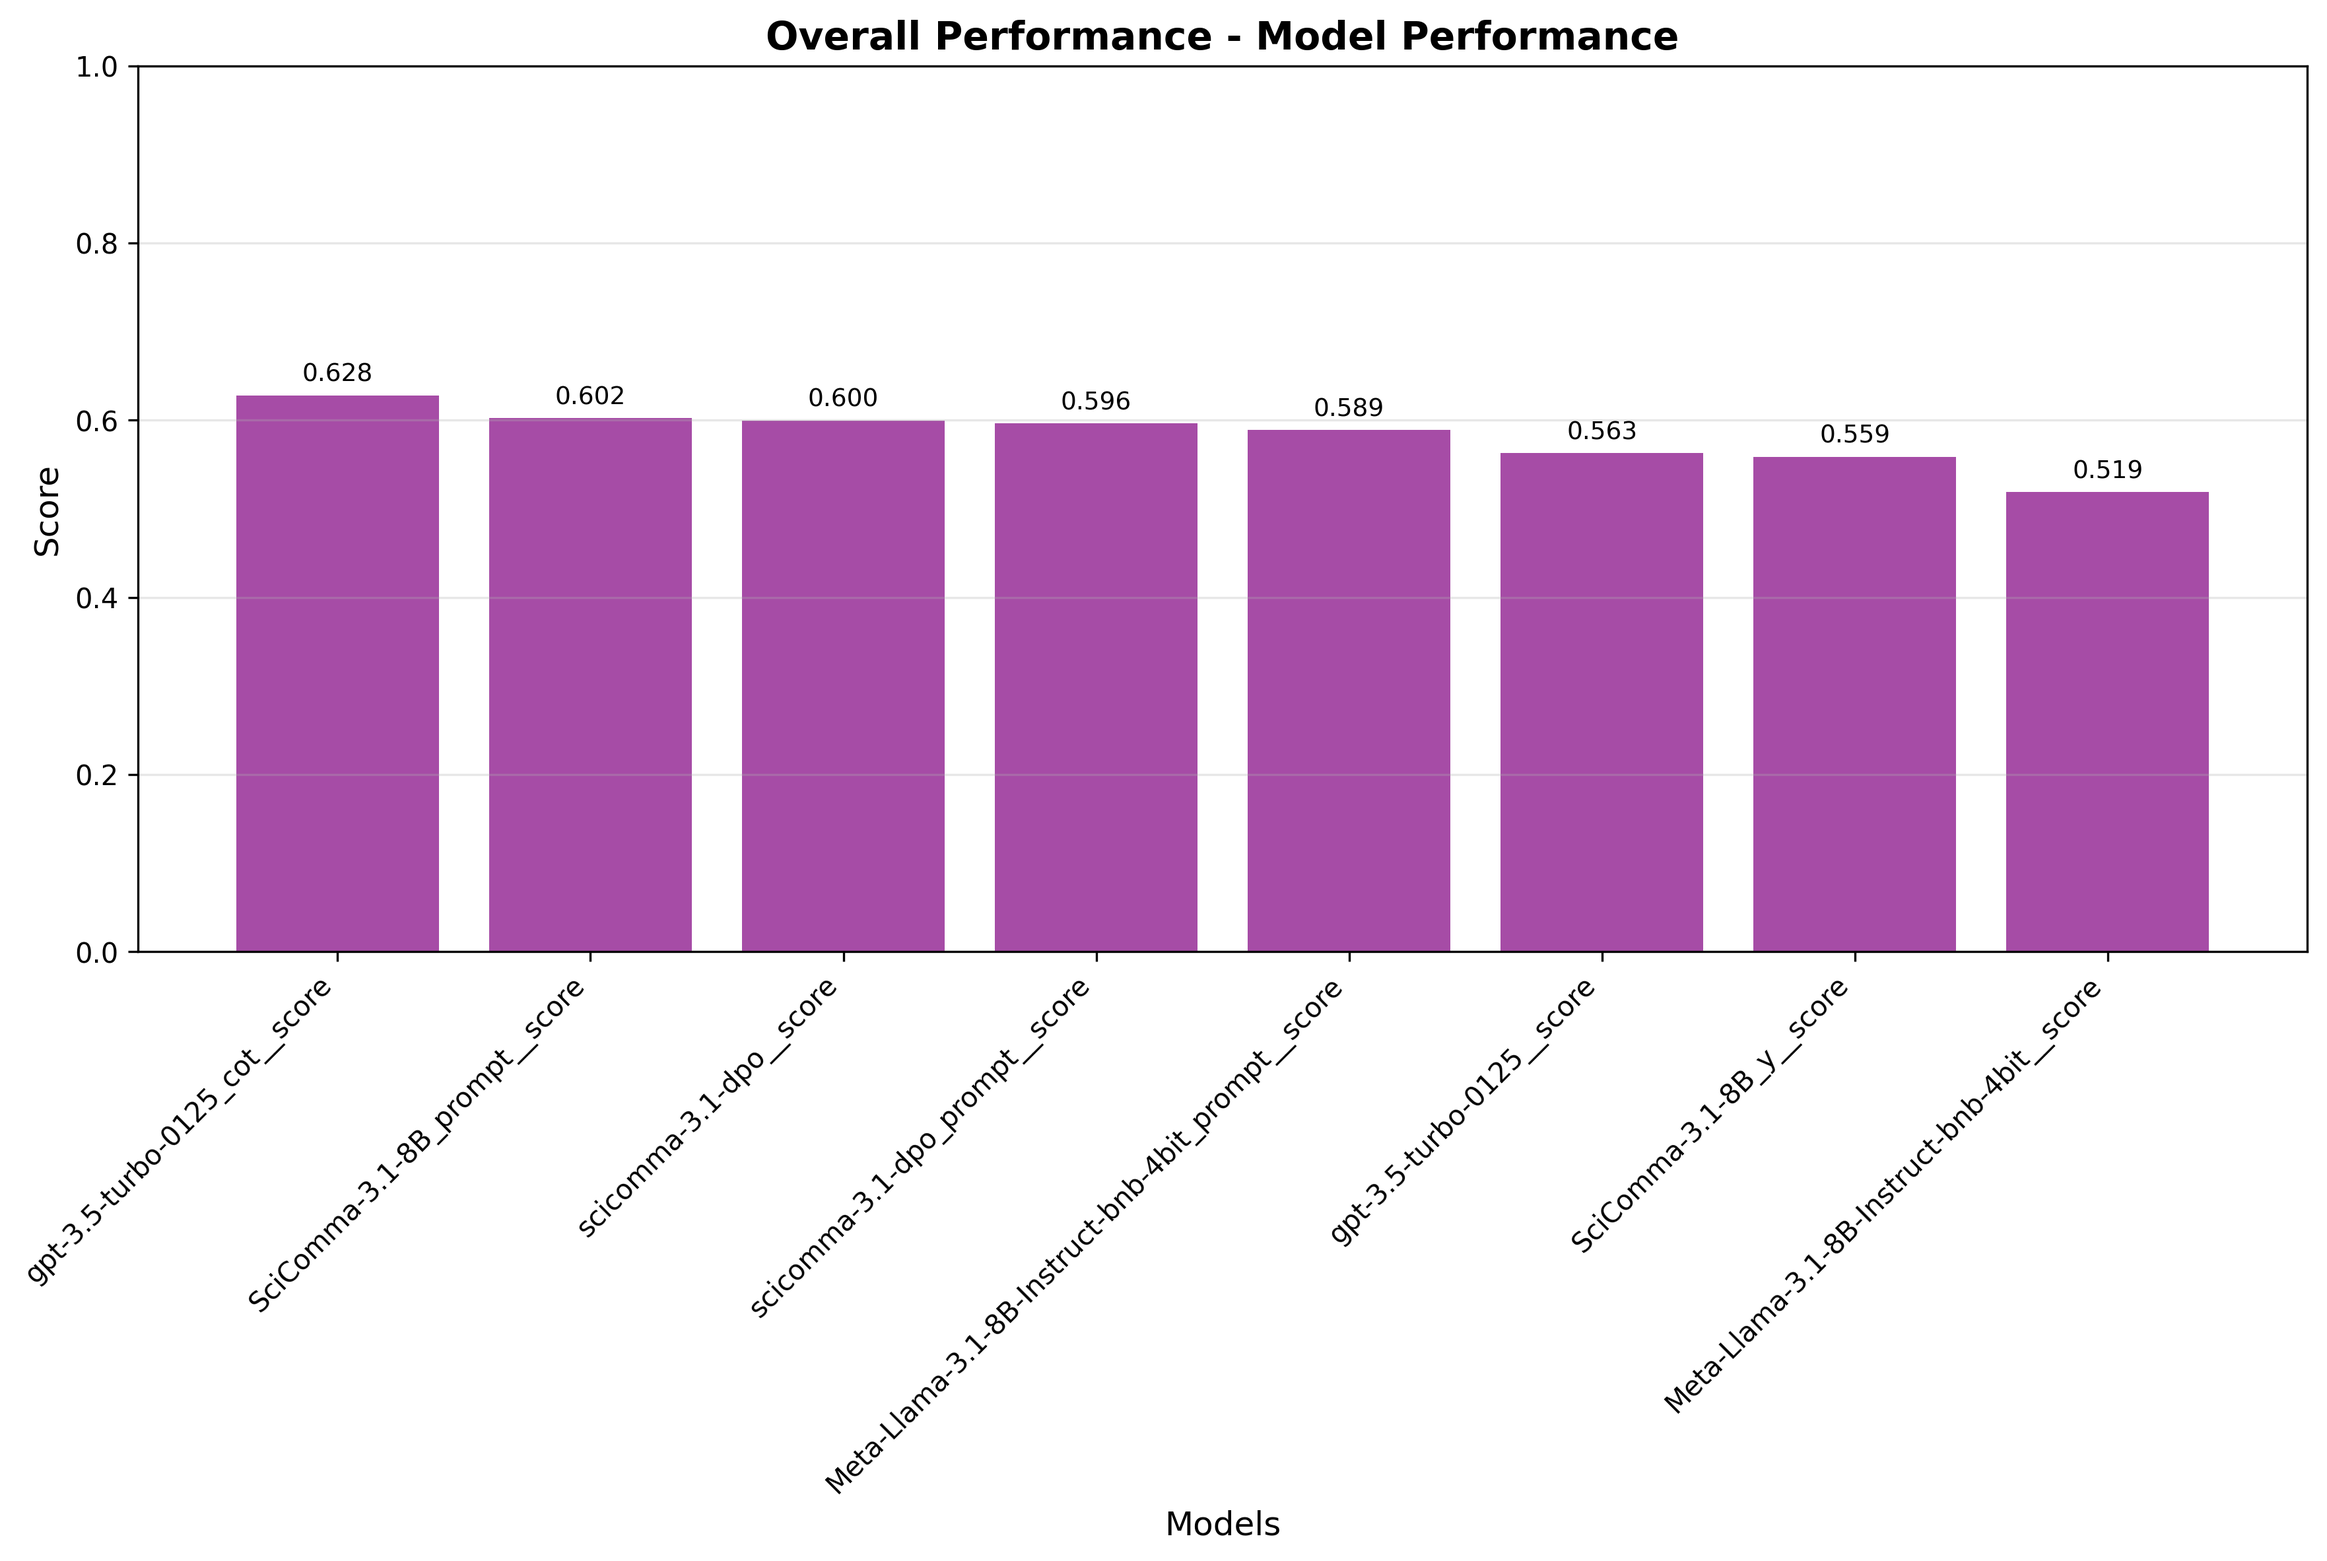
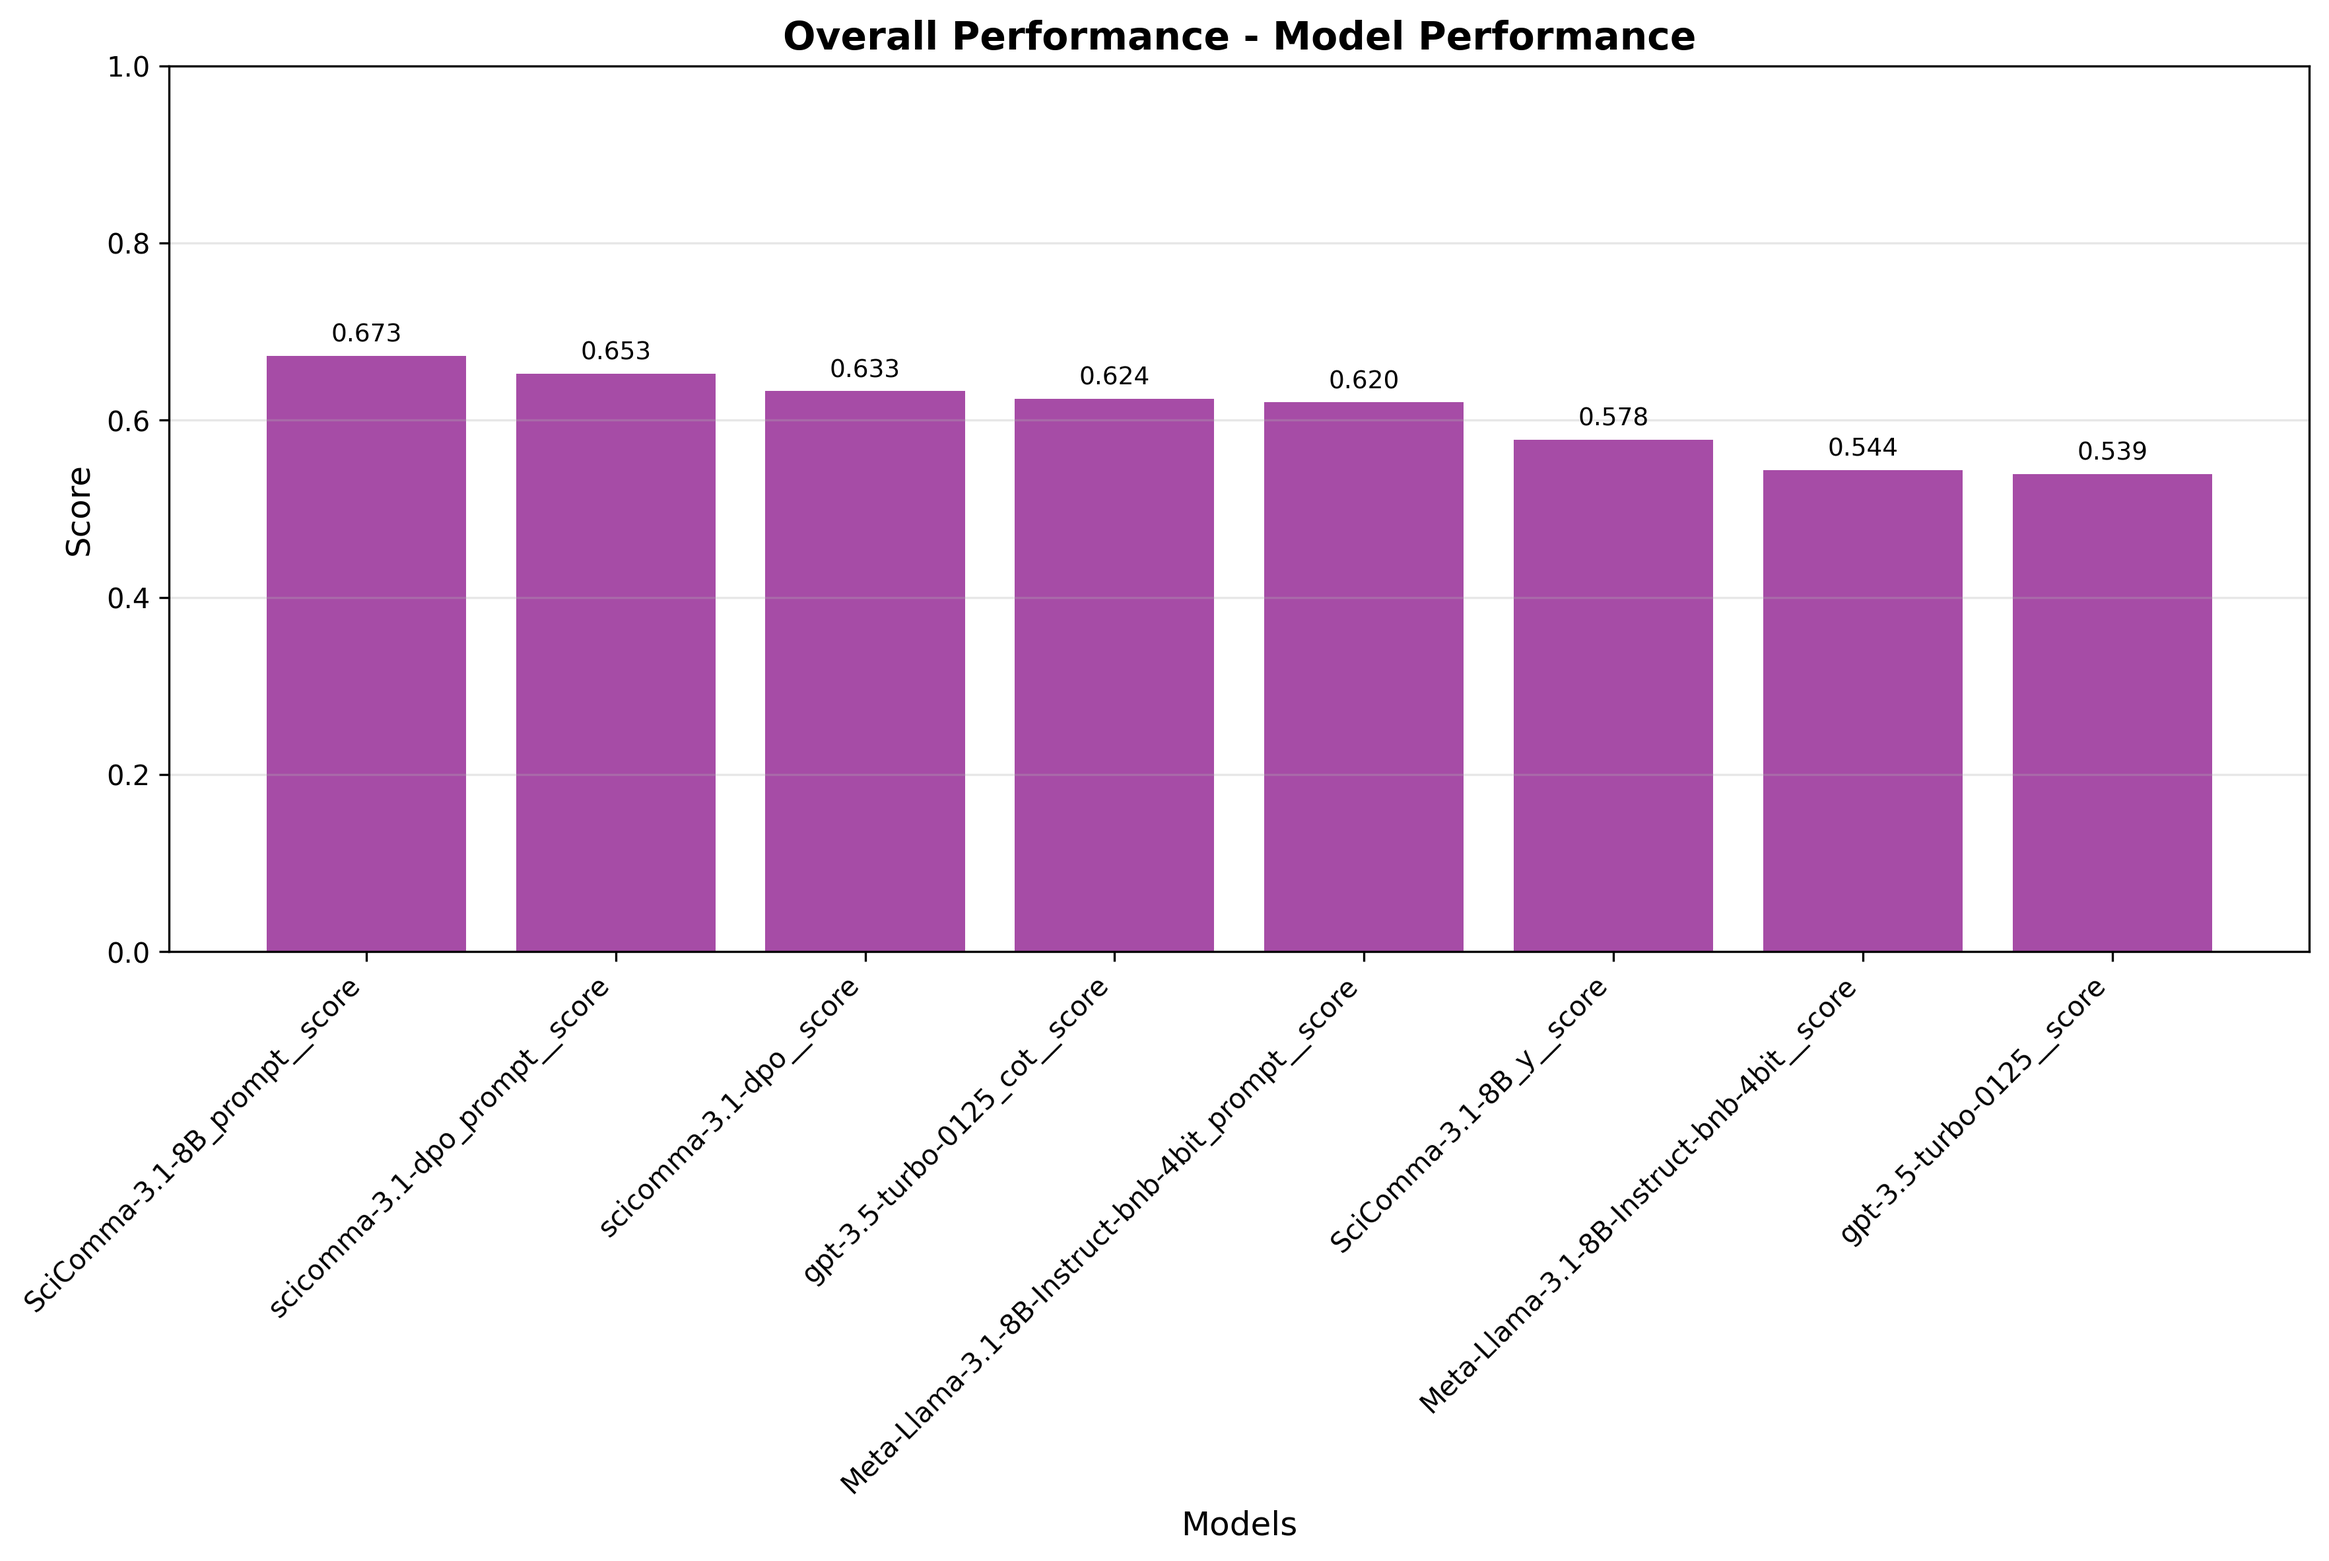
fix normalization for readability metrics again

diff --git a/Benchmarking/deep_eval/custom_metrics/aggregate.py b/Benchmarking/deep_eval/custom_metrics/aggregate.py
@@ -20,9 +20,14 @@ def normalize_df(df, is_lower_better):
     if min_val == max_val:
         return df  # Avoid division by zero; leave unchanged
     if is_lower_better:
+        if min_val >= 0 and max_val < 1:
+            normalized = 1 - numeric_df
         normalized = 1 - ((numeric_df - min_val) / (max_val - min_val))
     else:
-        normalized = (numeric_df - min_val) / (max_val - min_val)
+        if min_val >= 0 and max_val < 1:
+            normalized = numeric_df
+        else:
+            normalized = (numeric_df - min_val) / (max_val - min_val)
     df.loc[:, normalized.columns] = normalized
     return df
 
@@ -85,7 +90,7 @@ def aggregate_over_model_metric(directory, lower_is_better_metrics):
             try:
                 df = pd.read_csv(filepath)
                 df = normalize_df(
-                    df, is_lower_better=filename in lower_is_better_metrics
+                    df, is_lower_better=filename[:-4] in lower_is_better_metrics
                 )
                 all_normalized_dfs.append(df)
                 means = df.mean(numeric_only=True, skipna=True)
@@ -98,6 +103,33 @@ def aggregate_over_model_metric(directory, lower_is_better_metrics):
             means_df = pd.DataFrame(rows)
             cols = ["metric"] + [col for col in means_df.columns if col != "metric"]
             means_df = means_df[cols]
+            
+            # Define the desired order of metrics
+            metric_order = [
+                "metaphor_explicit",
+                "humor_explicit",
+                "content_units_explicit",
+                "connection_to_everyday_life",
+                "explanation_type",
+                "analogy_explicit",
+                "jargon",
+                "alternatives_explicit",
+                "internal_coherence_explicit",
+                "perceived_truth_explicit",
+                "articulation_explicit",
+                "completeness_explicit",
+                "flesch_reading_ease",
+                "flesch_kincaid",
+                "dale_chall",
+                "ari"
+            ]
+            
+            # Set the metric column as categorical with the specified order
+            means_df['metric'] = pd.Categorical(means_df['metric'], categories=metric_order, ordered=True)
+            
+            # Sort by the metric column
+            means_df = means_df.sort_values('metric')
+            
             means_df.to_csv(output_file, index=False)
             print(f"Wrote normalized means to {output_file}")
 
@@ -134,7 +166,7 @@ def aggregate_final_model_scores(directory: str, ignore_files: list[str], lower_
         df_scores = df[score_columns].copy()
         
         # Normalize the scores
-        is_lower_better = file_name in lower_is_better_metrics
+        is_lower_better = file_name[:-4] in lower_is_better_metrics
         df_normalized = normalize_df(df_scores, is_lower_better)
         
         # Add metric name as identifier and collect all scores
@@ -206,7 +238,7 @@ def aggregate_categorical_model_scores(directory: str, ignore_files: list[str], 
         df_scores = df[score_columns].copy()
         
         # Normalize the scores
-        is_lower_better = file_name in lower_is_better_metrics
+        is_lower_better = file_name[:-4] in lower_is_better_metrics
         df_normalized = normalize_df(df_scores, is_lower_better)
         
         # Determine metric category
